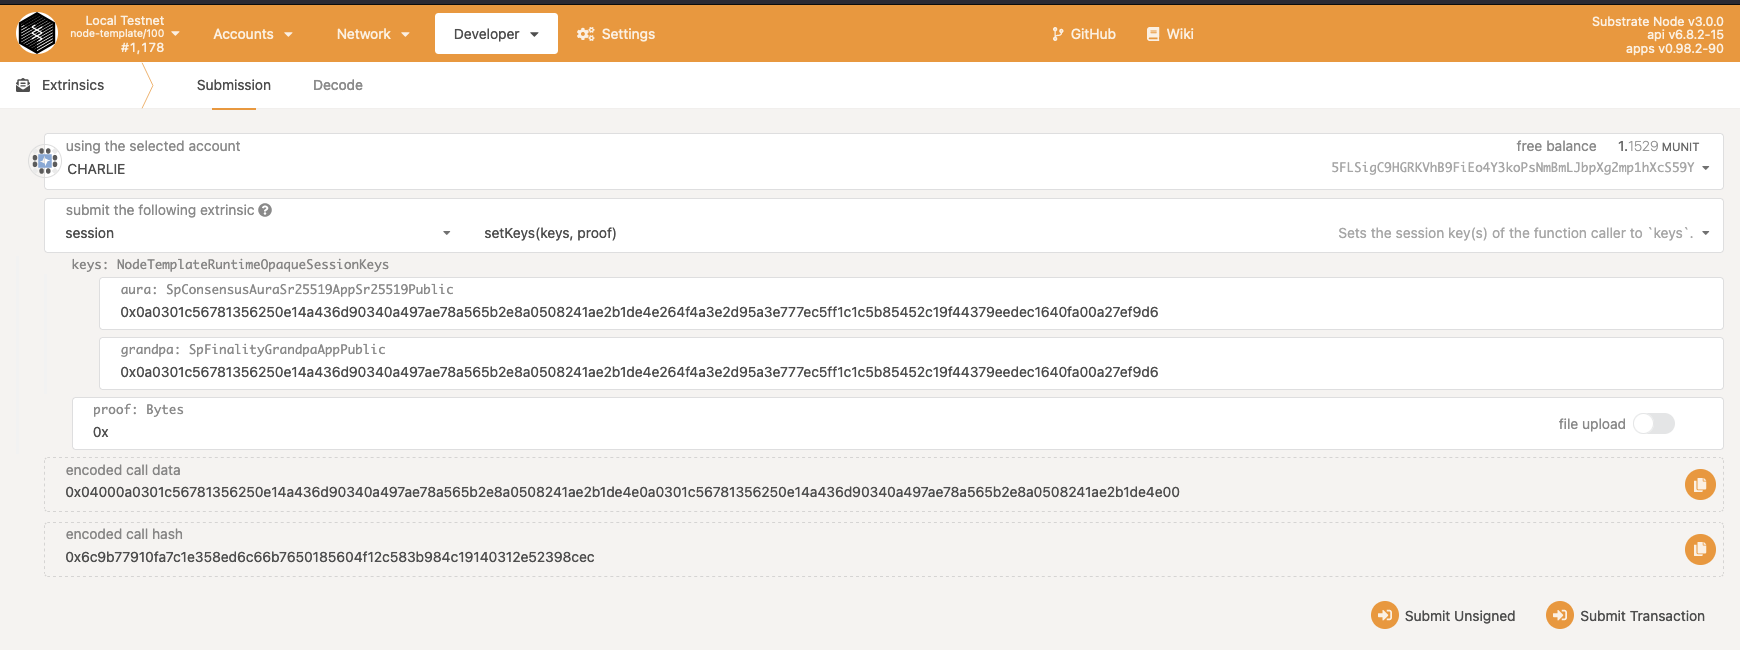
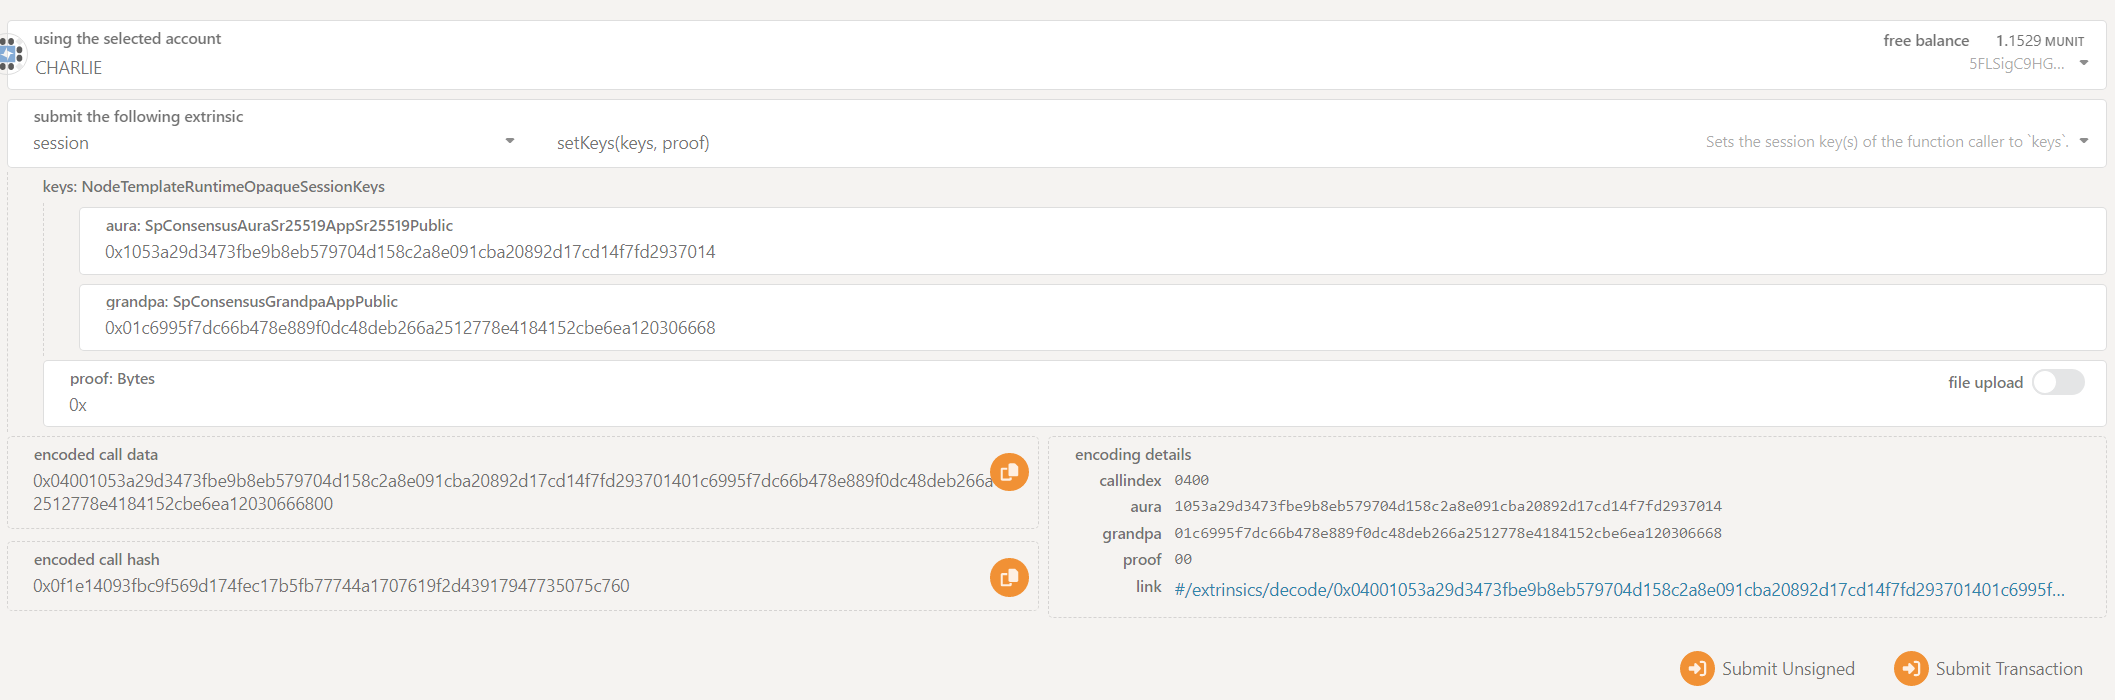
Update to 0.9.42

diff --git a/src/tests.rs b/src/tests.rs
@@ -3,7 +3,7 @@
 #![cfg(test)]
 
 use super::*;
-use crate::mock::{authorities, new_test_ext, RuntimeOrigin, Session, Test, ValidatorSet};
+pub use crate::mock::{authorities, new_test_ext, RuntimeOrigin, Session, Test, ValidatorSet};
 use frame_support::{assert_noop, assert_ok, pallet_prelude::*};
 use sp_runtime::testing::UintAuthorityId;
 

diff --git a/src/mock.rs b/src/mock.rs
@@ -57,7 +57,7 @@ type UncheckedExtrinsic = frame_system::mocking::MockUncheckedExtrinsic<Test>;
 type Block = frame_system::mocking::MockBlock<Test>;
 
 frame_support::construct_runtime!(
-	pub enum Test where
+	pub struct Test where
 		Block = Block,
 		NodeBlock = Block,
 		UncheckedExtrinsic = UncheckedExtrinsic,

diff --git a/src/lib.rs b/src/lib.rs
@@ -29,7 +29,7 @@ use sp_std::{collections::btree_set::BTreeSet, prelude::*};
 
 pub const LOG_TARGET: &'static str = "runtime::validator-set";
 
-#[frame_support::pallet]
+#[frame_support::pallet(dev_mode)]
 pub mod pallet {
 	use super::*;
 	use frame_system::pallet_prelude::*;

diff --git a/docs/local-network-setup.md b/docs/local-network-setup.md
@@ -1,4 +1,4 @@
-# Local network setup for testing Validator Set pallet
+# Local Network Setup For Testing Validator Set pallet
 
 If you are using the Substrate node template and want to set up a local network to test/use the validator set pallet, follow the steps below. Make sure you have completed all the steps in the [readme.md](../readme.md) before doing this.
 
@@ -12,7 +12,7 @@ The node template comes with two predefined chain configurations - `dev` and `lo
 Run the `Alice` validator:
 
 ```bash
-./target/release/node-template --chain=local --alice --base-path /tmp/a --port=30334 --ws-port 9944 --ws-external --rpc-cors=all --rpc-methods=Unsafe --rpc-external
+./target/release/node-template --chain=local --alice --base-path ~/tmp/a --port=30334 --ws-port 9944 --ws-external --rpc-cors=all --rpc-methods=Unsafe --rpc-external
 ```
 
 Note that we have provided --chain=local, and custom values for base-path, port, ws-port. These custom value are used to avoid conflicts when running all nodes on local machine. If you are running nodes on separate servers, you can leave these as defaults.
@@ -34,13 +34,13 @@ In this case, `12D3KooWQXBxhGvmbcb8siLZWf7bNzv3KrzEXhi9t2VbDGP57zR9` is the node
 Next, run the `Bob` and `Charlie` nodes:
 
 ```bash
-./target/release/node-template --chain=local --bob --base-path /tmp/b --port=30335 --ws-port 9945 --ws-external --rpc-cors=all --rpc-methods=Unsafe --rpc-external --bootnodes /ip4/127.0.0.1/tcp/30334/p2p/12D3KooWQXBxhGvmbcb8siLZWf7bNzv3KrzEXhi9t2VbDGP57zR9
+./target/release/node-template --chain=local --bob --base-path ~/tmp/b --port=30335 --ws-port 9945 --ws-external --rpc-cors=all --rpc-methods=Unsafe --rpc-external --bootnodes /ip4/127.0.0.1/tcp/30334/p2p/12D3KooWQXBxhGvmbcb8siLZWf7bNzv3KrzEXhi9t2VbDGP57zR9
 ```
 
 and,
 
 ```bash
-./target/release/node-template --chain=local --charlie --base-path /tmp/c --port=30336 --ws-port 9946 --ws-external --rpc-cors=all --rpc-methods=Unsafe --rpc-external --bootnodes /ip4/127.0.0.1/tcp/30334/p2p/12D3KooWQXBxhGvmbcb8siLZWf7bNzv3KrzEXhi9t2VbDGP57zR9
+./target/release/node-template --chain=local --charlie --base-path ~/tmp/c --port=30336 --ws-port 9946 --ws-external --rpc-cors=all --rpc-methods=Unsafe --rpc-external --bootnodes /ip4/127.0.0.1/tcp/30334/p2p/12D3KooWQXBxhGvmbcb8siLZWf7bNzv3KrzEXhi9t2VbDGP57zR9
 ```
 
 As you can see, we have added an additional parameter when running `Bob` and `Charlie` nodes to provide a bootnode. The bootnodes parameter has the `Alice` node's identity. You should replace it with what you get in Step 2 above.
@@ -48,7 +48,7 @@ As you can see, we have added an additional parameter when running `Bob` and `Ch
 ### Step 4
 
 Open Polkadot JS Apps in your browser and connect it to the `Charlie` node using its ws endpoint. In this case, it would be: `ws://127.0.0.1:9946`. Remember we used a custom `ws-port`.
-In the Network Explorer you should see that `Alice` and `Bob` are producing blocks, while `Charlie` is not. This is because `Charlie` is not part of initial authorities from genesis config. 
+In the Network Explorer you should see that `Alice` and `Bob` are producing blocks, while `Charlie` is not. This is because `Charlie` is not part of initial authorities from genesis config.
 
 ### Step 5
 
@@ -60,7 +60,7 @@ From `Charlie` node connected Polkadot JS Apps instance, make an RPC call `autho
 ### Step 6
 
 Now make an extrinsic call from `Charlie` account - `Session - set_keys`.
-Use the string obtained in Step 5 above in the `keys: NodeTemplateRuntimeOpaqueSessionKeys` input. Enter the same value if you see multiple input fields grouped under keys (aura, grandpa, imonline).
+Use the string obtained in Step 5 above in the `keys: NodeTemplateRuntimeOpaqueSessionKeys` input. You'd have got a big string from the last step. First remove the `0x` from the beginning. Then divide that remaining bigger string into equal parts of 32 bytes each. Prefix `0x` to each of these strings and then enter them in the input fields for each of the keys (aura, grandpa, imonline).
 Put `0x` in the `proof` input.
 
 <br />
@@ -68,7 +68,7 @@ Put `0x` in the `proof` input.
 
 ### Step 7
 
-Finally, add `Charlie` as a validator by calling the `add_validator` extrinsic of the Validator Set pallet using `sudo`. Alice is set as the sudo key in node template.
+Finally, add `Charlie` as a validator by calling the `add_validator` extrinsic of the Validator Set pallet using `sudo`. Alice should be caller of this extrinsic, because Alice is set as the sudo key in node template.
 
 <br />
 <img src="./img/add-validator.png" alt="add-validator" />

diff --git a/readme.md b/readme.md
@@ -2,7 +2,7 @@
 
 A [Substrate](https://github.com/paritytech/substrate/) pallet to add/remove authorities/validators in PoA networks.
 
-**Note: Current master is compatible with Substrate [polkadot-v0.9.41](https://github.com/paritytech/substrate/tree/polkadot-v0.9.41) branch. For older versions, please see releases/tags.**
+**Note: Current master is compatible with Substrate [polkadot-v0.9.42](https://github.com/paritytech/substrate/tree/polkadot-v0.9.42) branch. For older versions, please see releases/tags.**
 
 ## Demo
 
@@ -21,12 +21,12 @@ To see this pallet in action in a Substrate runtime, watch this video - https://
 default-features = false
 package = 'substrate-validator-set'
 git = 'https://github.com/gautamdhameja/substrate-validator-set.git'
-version = '0.9.41'
+version = '0.9.42'
 
 [dependencies.pallet-session]
 default-features = false
 git = 'https://github.com/paritytech/substrate.git'
-branch = 'polkadot-v0.9.41'
+branch = 'polkadot-v0.9.42'
 ```
 
 ```toml
@@ -140,14 +140,21 @@ pub fn authority_keys_from_seed(s: &str) -> (AccountId, AuraId, GrandpaId) {
 * Add genesis config in the `chain_spec.rs` file for `session` and `validatorset` pallets, and update it for `Aura` and `Grandpa` pallets. Because the validators are provided by the `session` pallet, we do not initialize them explicitly for `Aura` and `Grandpa` pallets. Order is important, notice that `pallet_session` is declared after `pallet_balances` since it depends on it (session accounts should have some balance).
 
 ```rust
-fn testnet_genesis(initial_authorities: Vec<(AccountId, AuraId, GrandpaId)>,
+fn testnet_genesis(
+	wasm_binary: &[u8],
+	initial_authorities: Vec<(AccountId, AuraId, GrandpaId)>,
 	root_key: AccountId,
 	endowed_accounts: Vec<AccountId>,
-	_enable_println: bool) -> GenesisConfig {
+	_enable_println: bool,
+) -> GenesisConfig {
 	GenesisConfig {
-		...,
+		system: SystemConfig {
+			// Add Wasm runtime to storage.
+			code: wasm_binary.to_vec(),
+		},
 		balances: BalancesConfig {
-			balances: endowed_accounts.iter().cloned().map(|k|(k, 1 << 60)).collect(),
+			// Configure endowed accounts with initial balance of 1 << 60.
+			balances: endowed_accounts.iter().cloned().map(|k| (k, 1 << 60)).collect(),
 		},
 		validator_set: ValidatorSetConfig {
 			initial_validators: initial_authorities.iter().map(|x| x.0.clone()).collect::<Vec<_>>(),
@@ -163,6 +170,11 @@ fn testnet_genesis(initial_authorities: Vec<(AccountId, AuraId, GrandpaId)>,
 		grandpa: GrandpaConfig {
 			authorities: vec![],
 		},
+		sudo: SudoConfig {
+			// Assign network admin rights.
+			key: Some(root_key),
+		},
+		transaction_payment: Default::default(),
 	}
 }
 ```

diff --git a/docs/im-online-integration.md b/docs/im-online-integration.md
@@ -12,7 +12,7 @@
 [dependencies.pallet-im-online]
 default-features = false
 git = 'https://github.com/paritytech/substrate.git'
-branch = 'polkadot-v0.9.41'
+branch = 'polkadot-v0.9.42'
 ```
 
 ```toml
@@ -154,7 +154,7 @@ construct_runtime!(
 [dependencies.pallet-im-online]
 default-features = false
 git = 'https://github.com/paritytech/substrate.git'
-branch = 'polkadot-v0.9.41'
+branch = 'polkadot-v0.9.42'
 ```
 
 * Import `ImOnlineId` in the `chain_spec.rs`.
